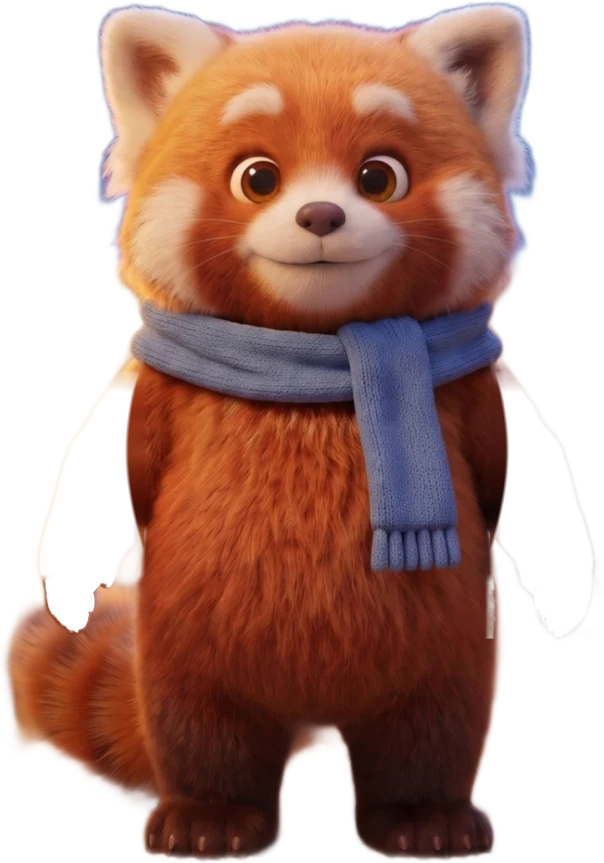
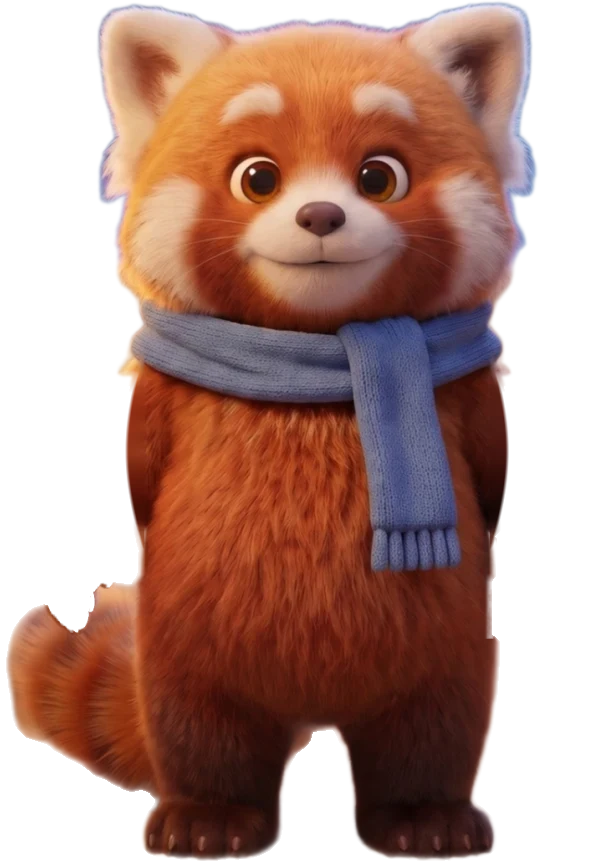
ZUMI con una sola voz, respuestas más rápidas y cuerpo limpio
- Sin cambio a otra voz: el servidor reintenta Gemini y la app no usa la voz del teléfono
- Respuestas divididas en frases cortas: ZUMI empieza a hablar antes en la llamada
- Matiz «escena» de la misma voz para las películas
- Cuerpo de la marioneta sin restos fantasma de los brazos

Claude-Session: https://claude.ai/code/session_019LxYZEheist9MHDzqVRjaR

diff --git a/client/src/components/EstudioZumi.jsx b/client/src/components/EstudioZumi.jsx
@@ -218,8 +218,7 @@ export default function EstudioZumi({ datos, nombreCuenta, conCuenta, traje = 'p
   const enReporte = e.frases === textos
   const i = enReporte ? e.frase : -1
   const escena = i >= 0 ? escenas[i] : null
-  const primera = e.frases[0]
-  const respondiendo = ultima && e.frases.length === 1 && (typeof primera === 'string' ? primera : primera?.texto) === ultima.texto && e.hablando
+  const respondiendo = ultima && e.hablando && e.frases.length > 0 && e.frases !== textos && e.frases.map((x) => (typeof x === 'string' ? x : x?.texto)).join(' ') === ultima.texto
   const terminado = !e.hablando
 
   useEffect(() => {
@@ -265,8 +264,8 @@ export default function EstudioZumi({ datos, nombreCuenta, conCuenta, traje = 'p
     const r = await preguntarZumi(q, { ...datos, nombre: quien }, historial.current, { conCuenta })
     historial.current = [...historial.current, { rol: 'persona', texto: q }, { rol: 'zumi', texto: r.texto }].slice(-6)
     setPensando(false)
-    setUltima({ pregunta: q, ...r })
-    hablar([r.texto], { silencio })
+    setUltima({ pregunta: q, ...r, texto: enTrozos(r.texto).join(' ') })
+    hablar(enTrozos(r.texto), { silencio })
   }
 
   const SR = typeof window !== 'undefined' ? window.SpeechRecognition || window.webkitSpeechRecognition : null
@@ -314,13 +313,13 @@ export default function EstudioZumi({ datos, nombreCuenta, conCuenta, traje = 'p
     setUltima({ pregunta: null, texto: saludo, fuente: 'zumi' })
     setLlamada(true)
     setInicioLlamada(Date.now())
-    hablar([saludo], { silencio })
+    hablar(enTrozos(saludo), { silencio })
   }
   const colgar = (despedida = '¡Fue genial hablar contigo! Aquí estaré cuando me necesites. ¡Chao, chao!') => {
     setLlamada(false)
     reconocedor.current?.stop()
     setUltima({ pregunta: null, texto: despedida, fuente: 'zumi' })
-    hablar([despedida], { silencio })
+    hablar(enTrozos(despedida), { silencio })
   }
   // Turnos de la llamada: cuando ZUMI termina de hablar, vuelve a escuchar solo.
   useEffect(() => {
@@ -596,6 +595,21 @@ function Interruptor({ etiqueta, detalle, inicial, onCambiar }) {
       />
     </label>
   )
+}
+
+/**
+ * Corta una respuesta en frases cortas: la voz de cada una se pide aparte (y en paralelo con la que
+ * suena), así ZUMI empieza a hablar mucho antes, como en una llamada real.
+ */
+export function enTrozos(texto) {
+  const partes = String(texto ?? '').match(/[^.!?¡¿]*[¡¿]?[^.!?]*[.!?]+["»)]?|[^.!?]+$/g)?.map((x) => x.trim()).filter(Boolean) ?? []
+  const out = []
+  for (const p of partes) {
+    const ult = out.at(-1)
+    if (ult && (ult.length < 28 || p.length < 14)) out[out.length - 1] = `${ult} ${p}`
+    else out.push(p)
+  }
+  return out.length ? out : [String(texto ?? '')]
 }
 
 /** Tiempo de llamada (mm:ss), como en el teléfono. */

diff --git a/server/services/voz/index.js b/server/services/voz/index.js
@@ -136,10 +136,14 @@ function iniciar() {
 }
 
 /** Genera la frase (WAV). Una a la vez, en orden de llegada. */
-export async function sintetizar(texto) {
+// Matices de actuación de la MISMA voz (no otra voz): la película pide ritmo de escena con pausas.
+export const MATICES = { escena: ' Está actuando una escena corta: habla con pausas expresivas entre frases y un ritmo algo más pausado, sin perder la energía.' }
+
+export async function sintetizar(texto, { matiz } = {}) {
   const t = paraVoz(texto)
+  const extra = MATICES[matiz] ?? ''
   if (!t) throw Object.assign(new Error('Texto vacío'), { status: 400 })
-  const k = clave(t)
+  const k = clave(t + (extra ? `|${matiz}` : ''))
   if (cache.has(k)) {
     const b = cache.get(k)
     cache.delete(k)
@@ -147,15 +151,21 @@ export async function sintetizar(texto) {
     return b
   }
   if (proveedorVoz() === 'gemini') {
-    try {
-      const b = await vozGemini(t)
-      cache.set(k, b)
-      if (cache.size > CACHE_MAX) cache.delete(cache.keys().next().value)
-      return b
-    } catch (e) {
-      console.error('Voz Gemini falló, uso la voz libre:', e.message)
-      if (!piperListo()) throw e
+    // Una sola voz: si Gemini falla se reintenta, pero no se cambia a otra voz (salvo VOZ_RESPALDO=true).
+    let error = null
+    for (let intento = 0; intento < 2; intento++) {
+      try {
+        const b = await vozGemini(t, { estilo: ESTILO_ZUMI + extra })
+        cache.set(k, b)
+        if (cache.size > CACHE_MAX) cache.delete(cache.keys().next().value)
+        return b
+      } catch (e) {
+        error = e
+        console.error('Voz Gemini falló:', e.message)
+        await new Promise((ok) => setTimeout(ok, 900))
+      }
     }
+    if (process.env.VOZ_RESPALDO !== 'true' || !piperListo()) throw error
   }
   await iniciar()
   const trabajo = cola.then(

diff --git a/client/src/services/narrador.js b/client/src/services/narrador.js
@@ -10,7 +10,8 @@ import { riesgoAluvion } from './aluvion'
 import { faseLunar } from './cielo'
 import { direccionViento } from './clima'
 import * as labios from './labios'
-import { elementoAudio, pedirFrase, vozPropiaDisponible } from './vozZumi'
+import { elementoAudio, pedirFrase, usarVozPropia, vozPropiaDisponible } from './vozZumi'
+import { API_URL } from './reportes'
 
 export const NOMBRE = 'ZUMI'
 
@@ -145,7 +146,8 @@ function reproducirFrase(f, dicho) {
 }
 
 export async function hablar(frases, { silencio = vozSilenciada() } = {}) {
-  const s = silencio ? null : sintesis()
+  // ZUMI tiene una sola voz (la del servidor). La voz del teléfono solo se usa si la app no tiene servidor.
+  const s = silencio || (API_URL && usarVozPropia()) ? null : sintesis()
   sintesis()?.cancel()
   cortarAudio?.()
   estado = { hablando: true, frase: 0, frases }
@@ -175,7 +177,9 @@ export async function hablar(frases, { silencio = vozSilenciada() } = {}) {
     }
     if (propia) {
       pedir(i + 1) // la siguiente frase se va preparando mientras ZUMI habla
-      const f = await pedir(i)
+      let f = await pedir(i)
+      if (estado.frases !== frases) return false
+      if (!f) f = await pedirFrase(paraVoz(textoDe(frases[i]))).catch(() => null) // un reintento
       if (estado.frases !== frases) return false
       if (f) {
         await reproducirFrase(f, paraVoz(textoDe(frases[i])))

diff --git a/client/src/services/vozZumi.js b/client/src/services/vozZumi.js
@@ -12,7 +12,7 @@ export async function vozPropiaDisponible() {
   if (!API_URL || !usarVozPropia()) return false
   if (disponible !== null) return disponible
   try {
-    const r = await fetch(`${API_URL}/api/voz/estado`, { signal: AbortSignal.timeout(4000) })
+    const r = await fetch(`${API_URL}/api/voz/estado`, { signal: AbortSignal.timeout(12000) })
     disponible = r.ok && (await r.json()).activa === true
   } catch {
     disponible = false
@@ -85,7 +85,7 @@ export function envolvente(buf) {
 
 /** Pide la frase al servidor. Devuelve { url, env, ms } o lanza error (se usa entonces la voz del teléfono). */
 export async function pedirFrase(texto, { signal } = {}) {
-  const r = await fetch(`${API_URL}/api/voz?t=${encodeURIComponent(texto)}`, { signal: signal ?? AbortSignal.timeout(12000) })
+  const r = await fetch(`${API_URL}/api/voz?t=${encodeURIComponent(texto)}`, { signal: signal ?? AbortSignal.timeout(15000) })
   if (!r.ok) throw new Error(`voz ${r.status}`)
   const buf = await r.arrayBuffer()
   const env = envolvente(buf)

diff --git a/server/routes/voz.js b/server/routes/voz.js
@@ -28,7 +28,7 @@ export function vozRouter() {
       const t = String(req.query.t ?? '').trim()
       if (!t || t.length > MAX_TEXTO) return res.status(400).json({ error: `Texto entre 1 y ${MAX_TEXTO} caracteres` })
       if (!permitido(req.ip)) return res.status(429).json({ error: 'Demasiadas frases seguidas; espera un momento' })
-      const wav = await sintetizar(t)
+      const wav = await sintetizar(t, { matiz: req.query.matiz === 'escena' ? 'escena' : undefined })
       res.set({ 'Content-Type': 'audio/wav', 'Cache-Control': 'public, max-age=86400', 'Content-Length': wav.length }).send(wav)
     } catch (e) {
       next(e)

diff --git a/client/scripts/zumi-limpiar-cuerpo.py b/client/scripts/zumi-limpiar-cuerpo.py
@@ -1,0 +1,36 @@
+import cv2, numpy as np, json, sys
+from PIL import Image
+P='/home/claude/alertaclima-chile/client/public/zumi/marioneta/'
+def limpiar(rgba, desde_y):
+    a = rgba[:,:,3].astype(np.uint8)
+    solido = (a > 200).astype(np.uint8)
+    # quita salientes delgadas (ganchos de garra) solo bajo los hombros
+    k = cv2.getStructuringElement(cv2.MORPH_ELLIPSE, (13, 13))
+    abierto = cv2.morphologyEx(solido, cv2.MORPH_OPEN, k)
+    solido[desde_y:] = abierto[desde_y:]
+    # se queda con la pieza principal (y la cola si está pegada)
+    n, lab, st, _ = cv2.connectedComponentsWithStats(solido, 8)
+    if n > 1:
+        grande = 1 + np.argmax(st[1:, cv2.CC_STAT_AREA])
+        solido = ((lab == grande) | ((st[lab, cv2.CC_STAT_AREA] > 0.04 * st[grande, cv2.CC_STAT_AREA]) & (lab > 0))).astype(np.uint8)
+    # borde suave del pelo: hasta 5 px alrededor del sólido; todo lo demás (fantasmas) fuera
+    zona = cv2.dilate(solido, cv2.getStructuringElement(cv2.MORPH_ELLIPSE, (11, 11)))
+    suave = cv2.GaussianBlur(zona.astype(np.float32), (7, 7), 0)
+    out = rgba.copy()
+    out[:,:,3] = (a.astype(np.float32) * np.clip(suave, 0, 1)).astype(np.uint8)
+    out[:,:,3][desde_y:][~(zona[desde_y:].astype(bool))] = 0
+    return out
+
+out_dir = sys.argv[1]
+ims=[]
+for e in sys.argv[2:]:
+    pz = json.load(open(P+e+'/pieza.json'))
+    im = np.array(Image.open(P+e+'/cuerpo.webp').convert('RGBA'))
+    hy = int(min(pz['hombros']['izq'][1], pz['hombros']['der'][1]) - pz['pos']['cuerpo'][1])
+    o = limpiar(im, hy)
+    Image.fromarray(o).save(f"{out_dir}/{e}.webp" if out_dir!='-' else P+e+'/cuerpo.webp', quality=88, method=6)
+    ims.append(Image.fromarray(o))
+W=sum(i.width for i in ims); H=max(i.height for i in ims)
+m=Image.new('RGBA',(W,H),(40,160,90,255)); x=0
+for i in ims: m.alpha_composite(i,(x,0)); x+=i.width
+m.thumbnail((2000,900)); m.save('cuerpos2.png')
